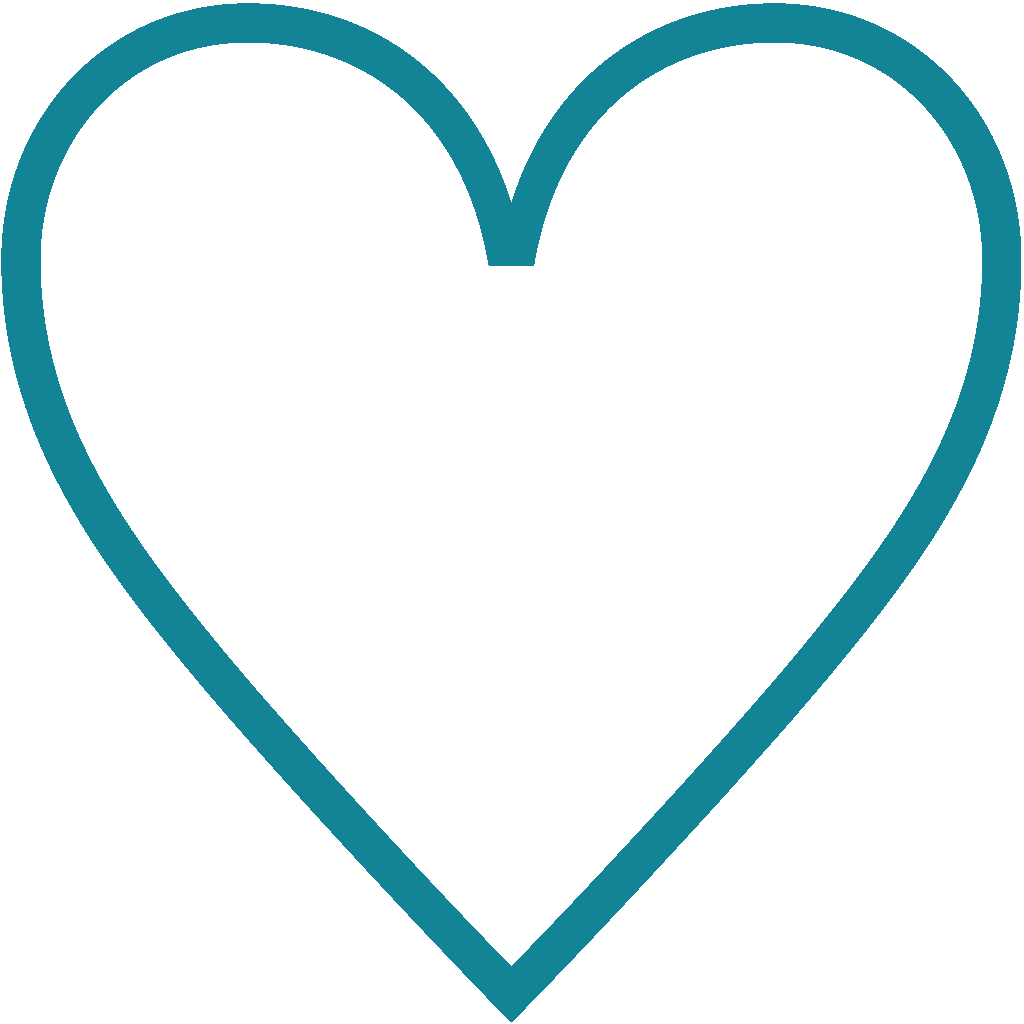
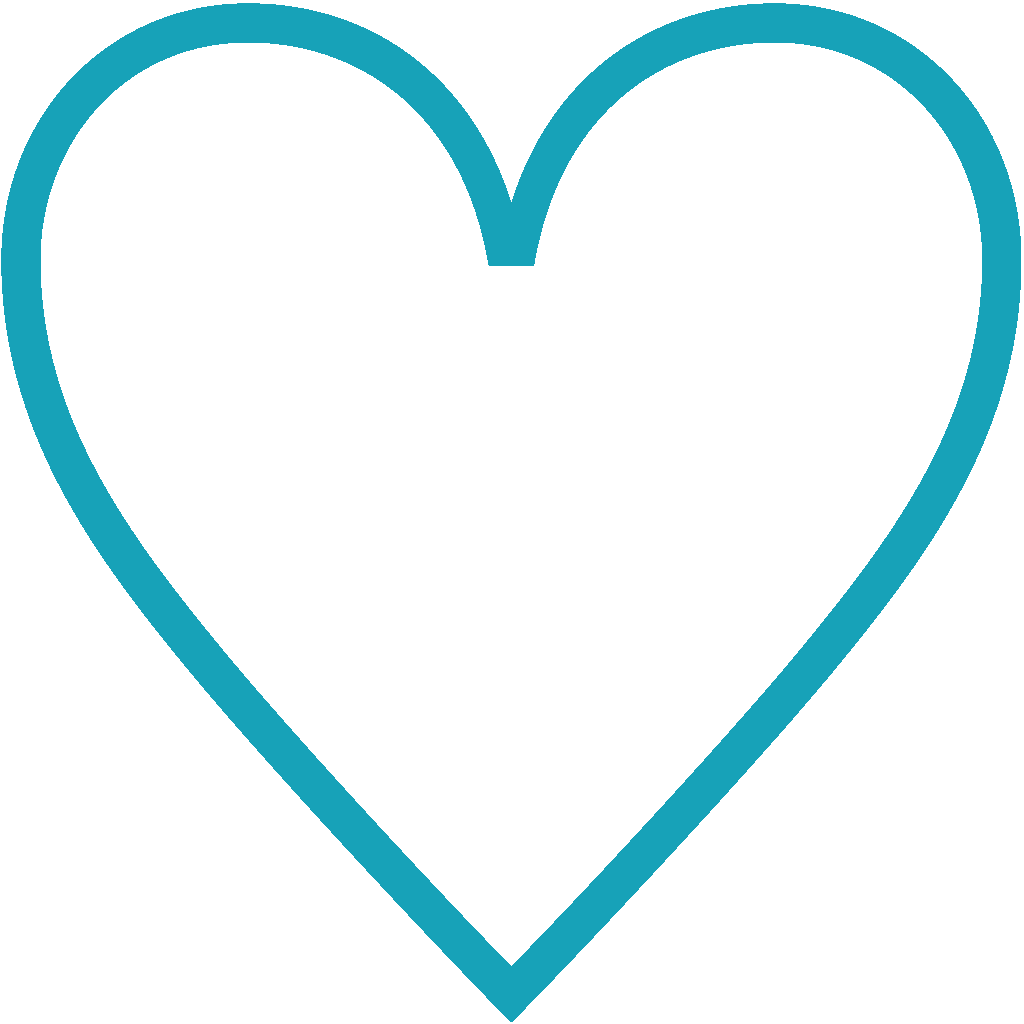
Change blue to proper shade (was using the hover rgb)

Changed region(s): [[0.0, 0.0, 1.0, 1.0]]

diff --git a/front-end/src/LargeRecipePreview.css b/front-end/src/LargeRecipePreview.css
@@ -43,12 +43,12 @@
 
 .largeRecipePreviewTag {
     margin-right: 5px;
-    color: rgb(19, 132, 150);
+    color: rgb(23, 162, 184);
     font-weight: bold;
     font-size: 14px;
 }
 .largeRecipePreviewTag:hover, .largeRecipePreviewTag:active {
-    color: rgb(19, 132, 150);
+    color: rgb(23, 162, 184);
     opacity: 60%;
     text-decoration: none;
 }

diff --git a/front-end/src/HamburgerNotSignedIn.css b/front-end/src/HamburgerNotSignedIn.css
@@ -14,11 +14,11 @@
 }
 
 .rbxSpaceAdjustment:hover {
-  color: rgb(19, 132, 150);
+  color: rgb(23, 162, 184);
 }
 
 .rbxSpaceAdjustment:active {
-  color: rgb(19, 132, 150);
+  color: rgb(23, 162, 184);
   background-color: rgb(238, 238, 238);;
 }
 

diff --git a/front-end/src/Navbar.css b/front-end/src/Navbar.css
@@ -1,4 +1,4 @@
 .rbxNavStyles {
-    background-color: rgb(19, 132, 150);
+    background-color: rgb(23, 162, 184);
     margin-top: 0px;
 }
